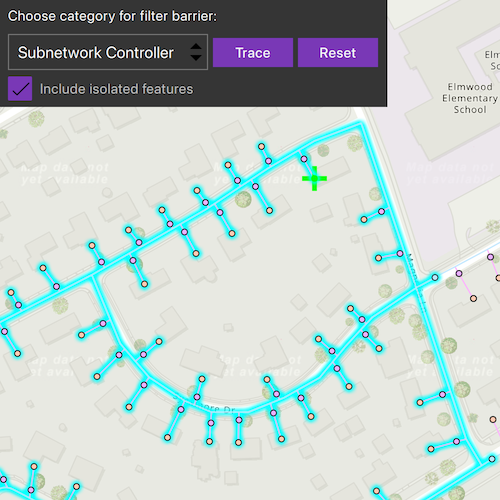
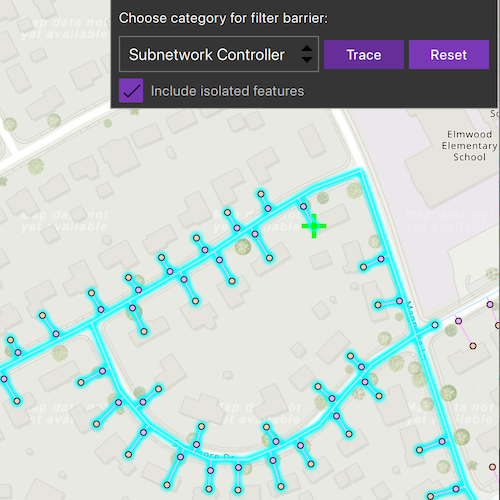
PerformValveisolationTrace, TraceutilityNetwork (UtilityNetwork) - added border and moved menu to the right.

diff --git a/CppSamples/UtilityNetwork/TraceUtilityNetwork/TraceUtilityNetwork.qml b/CppSamples/UtilityNetwork/TraceUtilityNetwork/TraceUtilityNetwork.qml
@@ -83,14 +83,19 @@ Item {
     Rectangle {
         id: backBox
         anchors {
-            left: parent.left
+            right: parent.right
             top: parent.top
             margins: 3
         }
-        width: childrenRect.width
-        height: childrenRect.height
+        width: contentColumn.implicitWidth + 16
+        height: contentColumn.implicitHeight + 16
         color: palette.base
         radius: 5
+
+        border {
+            width: 1
+            color: "darkgrey"
+        }
 
         // catch mouse signals from propagating to parent
         MouseArea {
@@ -100,7 +105,8 @@ Item {
         }
 
         Column {
-
+            id: contentColumn
+            anchors.centerIn: parent
             GridLayout {
                 columns: 2
                 rows: 3

diff --git a/CppSamples/UtilityNetwork/PerformValveIsolationTrace/PerformValveIsolationTrace.qml b/CppSamples/UtilityNetwork/PerformValveIsolationTrace/PerformValveIsolationTrace.qml
@@ -33,7 +33,7 @@ Item {
 
     ColumnLayout {
         anchors {
-            left: parent.left
+            right: parent.right
             top: parent.top
         }
 
@@ -42,6 +42,11 @@ Item {
             color: palette.base
             height: childrenRect.height + 20
             width: row.width * 1.05
+
+            border {
+                width: 1
+                color: "darkgrey"
+            }
 
             RowLayout {
                 id: titleRow
